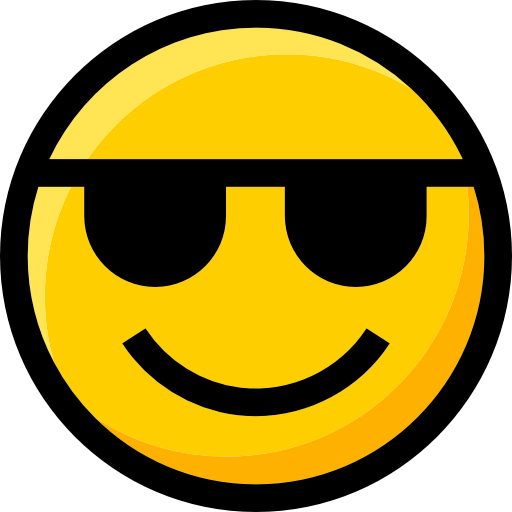
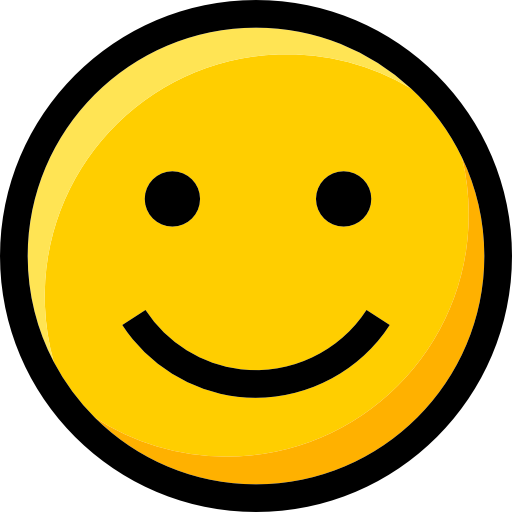
work on header

Changed region(s): [[0.0625, 0.3125, 0.9375, 0.5625], [0.2188, 0.5938, 0.7812, 0.8125]]

diff --git a/src/components/Board.jsx b/src/components/Board.jsx
@@ -53,7 +53,6 @@ export default function Board({level, mines, totalCells}){
         }
     },[clickableArray]);
 
-    console.log(clickableArray);
 
     let row;
     let col;
@@ -196,56 +195,64 @@ export default function Board({level, mines, totalCells}){
             return (
                 func({
                     backgroundImage: `url(${one})`,
-                    backgroundSize: `100% 100%`
+                    backgroundSize: `100% 100%`,
+                    backgroundColor: `#C1D5A4`
                 })
             )
         } else if (val === 2){
             return (
                 func({
                     backgroundImage: `url(${two})`,
-                    backgroundSize: `100% 100%`
+                    backgroundSize: `100% 100%`,
+                    backgroundColor: `#C1D5A4`
                 })
             )
         } else if (val === 3){
             return (
                 func({
                     backgroundImage: `url(${three})`,
-                    backgroundSize: `100% 100%`
+                    backgroundSize: `100% 100%`,
+                    backgroundColor: `#C1D5A4`
                 })
             )
         } else if (val === 4){
             return (
                 func({
                     backgroundImage: `url(${four})`,
-                    backgroundSize: `100% 100%`
+                    backgroundSize: `100% 100%`,
+                    backgroundColor: `#C1D5A4`
                 })
             )
         } else if (val === 5){
             return (
                 func({
                     backgroundImage: `url(${five})`,
-                    backgroundSize: `100% 100%`
+                    backgroundSize: `100% 100%`,
+                    backgroundColor: `#C1D5A4`
                 })
             )
         } else if (val === 6){
             return (
                 func({
                     backgroundImage: `url(${six})`,
-                    backgroundSize: `100% 100%`
+                    backgroundSize: `100% 100%`,
+                    backgroundColor: `#C1D5A4`
                 })
             )
         } else if (val === 7){
             return (
                 func({
                     backgroundImage: `url(${seven})`,
-                    backgroundSize: `100% 100%`
+                    backgroundSize: `100% 100%`,
+                    backgroundColor: `#C1D5A4`
                 })
             )
         } else {
             return (
                 func({
                     backgroundImage: `url(${eight})`,
-                    backgroundSize: `100% 100%`
+                    backgroundSize: `100% 100%`,
+                    backgroundColor: `#C1D5A4`
                 })
             )
         }
@@ -365,7 +372,7 @@ export default function Board({level, mines, totalCells}){
                             id={index}
                             value={value}
                             onBlank={blankArea}
-                            style={{backgroundColor: `#F3DEBA`}}
+                            style={{backgroundColor: `#C1D5A4`}}
                             numberStyle={numberedCell}
                             revealed={true}
                             level={level}
@@ -400,7 +407,7 @@ export default function Board({level, mines, totalCells}){
                             style={{
                                 backgroundImage: `url(${explosion})`,
                                 backgroundSize: `100% 100%`,
-                                backgroundColor: `yellow`
+                                backgroundColor: `#FFEE63`
                             }}
                             numberStyle={numberedCell}
                             revealed={true}

diff --git a/src/components/Header.jsx b/src/components/Header.jsx
@@ -1,7 +1,7 @@
 import Timer from './Timer.jsx';
 import './Header.css';
 
-export default function Header({difficulty, level}){
+export default function Header({difficulty, level, status}){
     let headerWidth;
     if (level === 'easy'){
         headerWidth = '300px';
@@ -17,12 +17,15 @@ export default function Header({difficulty, level}){
 
     return (
         <div className='header' style={{width: headerWidth}}>
-            <select name='difficulty' onChange={(e)=>difficulty(e)}>
-                <option value='easy'>Easy</option>
-                <option value='medium'>Medium</option>
-                <option value='hard'>Hard</option>
+            <select className='menu' name='difficulty' onChange={(e)=>difficulty(e)}>
+                <option className='option' value='easy'>Easy</option>
+                <option className='option' value='medium'>Medium</option>
+                <option className='option' value='hard'>Hard</option>
             </select>
-            <div></div>
+            <div
+                className='emoji'
+                style={status}
+            />
         </div>
     )
 }

diff --git a/src/components/Header.css b/src/components/Header.css
@@ -1,11 +1,36 @@
 .header {
-    text-align: center;
     margin: auto;
     height:10vh;
     background-color: #8D7B68;
     outline: solid;
     margin-top: 10px;
     margin-bottom: 5px;
+}
+
+.option {
+    font-size: 1.1rem;
+    text-align: left;
+    font-family: 'McLaren', cursive;
+}
+.menu {
+    font-size: 1.1rem;
+    display: block;
+    font-family: 'McLaren', cursive;
+    position: relative;
+    top: 5px;
+    left: 5px;
+}
+
+.emoji {
+    background-image: url("../images/game.png");
+    height: 50px;
+    width: 50px;
+    background-size: 100% 100%;
+    text-align: center;
+    margin: auto;
+    display: block;
+    position: relative;
+    top: 10px;
 }
 
 @media (max-height: 650px) {

diff --git a/public/index.html b/public/index.html
@@ -9,6 +9,9 @@
       name="description"
       content="Web site created using create-react-app"
     />
+    <link rel="preconnect" href="https://fonts.googleapis.com">
+    <link rel="preconnect" href="https://fonts.gstatic.com" crossorigin>
+    <link href="https://fonts.googleapis.com/css2?family=McLaren&display=swap" rel="stylesheet">
     <link rel="apple-touch-icon" href="%PUBLIC_URL%/logo192.png" />
     <!--
       manifest.json provides metadata used when your web app is installed on a

diff --git a/src/index.css b/src/index.css
@@ -1,10 +1,6 @@
 body {
   margin: 0;
-  font-family: -apple-system, BlinkMacSystemFont, 'Segoe UI', 'Roboto', 'Oxygen',
-    'Ubuntu', 'Cantarell', 'Fira Sans', 'Droid Sans', 'Helvetica Neue',
-    sans-serif;
-  -webkit-font-smoothing: antialiased;
-  -moz-osx-font-smoothing: grayscale;
+  font-family: 'McLaren', cursive;
   box-sizing: border-box;
 }
 

diff --git a/src/components/Cell.css b/src/components/Cell.css
@@ -1,9 +1,11 @@
 .cell {
-    background-color: #ABC4AA;
+    background-color: #7AA874;
     width: 30px;
     height: 30px;
     display: inline-block;
-    outline: solid;
+    border-width: 1px;
+    border-color: grey;
+    border-style: outset;
 }
 
 .cell:hover {
